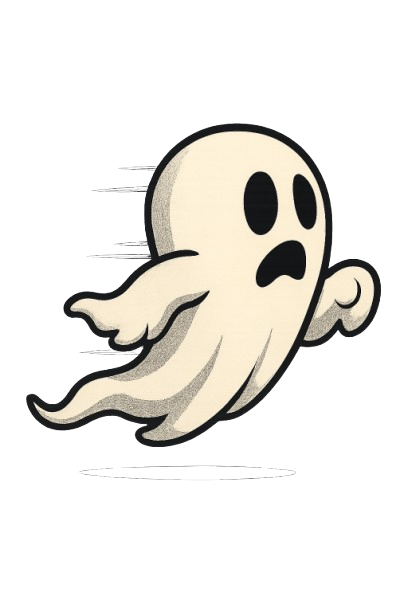
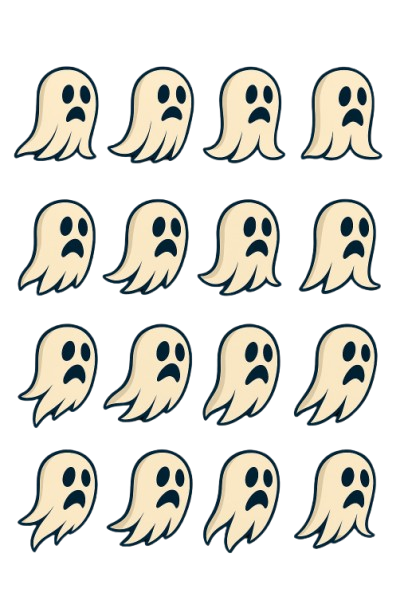
collision tile test

diff --git a/collision_tile.c b/collision_tile.c
@@ -1,0 +1,50 @@
+// collision_tile.c
+#include "raylib.h"
+#include <stdbool.h>
+
+#define TILE_SIZE 64
+#define MAP_WIDTH  10
+#define MAP_HEIGHT 10
+
+// 1 = solid tile, 0 = walkable
+int collisionMap[MAP_HEIGHT][MAP_WIDTH] = {
+    {1,1,1,1,1,1,1,1,1,1},
+    {1,0,0,0,0,0,0,0,0,1},
+    {1,0,0,1,0,0,1,0,0,1},
+    {1,0,0,1,0,0,1,0,0,1},
+    {1,0,0,1,0,0,1,0,0,1},
+    {1,0,0,0,0,0,0,0,0,1},
+    {1,1,1,1,1,1,1,1,1,1},
+    {1,0,0,0,0,0,0,0,0,1},
+    {1,0,1,1,0,0,1,1,0,1},
+    {1,1,1,1,1,1,1,1,1,1}
+};
+
+bool CheckCollisionWithMap(Rectangle rect)
+{
+    int startCol = (int)(rect.x / TILE_SIZE);
+    int endCol   = (int)((rect.x + rect.width) / TILE_SIZE);
+    int startRow = (int)(rect.y / TILE_SIZE);
+    int endRow   = (int)((rect.y + rect.height) / TILE_SIZE);
+
+    for (int row = startRow; row <= endRow; row++) {
+        for (int col = startCol; col <= endCol; col++) {
+            if (row >= 0 && row < MAP_HEIGHT && col >= 0 && col < MAP_WIDTH) {
+                if (collisionMap[row][col] == 1) {
+                    return true; // Collision detected
+                }
+            }
+        }
+    }
+    return false;
+}
+
+void DrawTileMap(Texture2D atlas) {
+    Rectangle src = { 0, 0, TILE_SIZE, TILE_SIZE }; // First tile in atlas
+    for (int y = 0; y < MAP_HEIGHT; y++) {
+        for (int x = 0; x < MAP_WIDTH; x++) {
+            Vector2 pos = { x * TILE_SIZE, y * TILE_SIZE };
+            DrawTextureRec(atlas, src, pos, WHITE);
+        }
+    }
+}

diff --git a/main.c b/main.c
@@ -1,5 +1,6 @@
 #include "raylib.h"
 #include "player.h"
+#include "collision_tile.h"
 
 #define SCREEN_WIDTH 800
 #define SCREEN_HEIGHT 600
@@ -9,6 +10,7 @@ int main()
     InitWindow(SCREEN_WIDTH, SCREEN_HEIGHT, "Phantom");
     SetTargetFPS(60);
 
+    Texture2D tileAtlas = LoadTexture("haunted_house_tile.png");
     InitPlayer();
 
     Camera2D camera = { 0 };
@@ -25,21 +27,22 @@ int main()
         camera.target = (Vector2){ player.position.x + player.width / 2, player.position.y + player.height / 2 };
 
         BeginDrawing();
-        ClearBackground(RAYWHITE);
+        ClearBackground(BLACK);
 
         BeginMode2D(camera);
 
-        DrawRectangle(-10000, 400, 20000, 50, DARKGRAY); // Ground
-        DrawPlayer();
+        DrawTileMap(tileAtlas);  // Draw background
+        DrawPlayer();            // Draw character
 
         EndMode2D();
 
-        // Debug text
-        DrawText(TextFormat("Y: %.2f  isJump: %s", player.position.y, player.isJump ? "true" : "false"), 10, 10, 20, BLACK);
+        // Debug info
+        DrawText(TextFormat("X: %.2f  Y: %.2f  isJump: %s", player.position.x, player.position.y, player.isJump ? "true" : "false"), 10, 10, 20, WHITE);
 
         EndDrawing();
     }
 
+    UnloadTexture(tileAtlas);
     UnloadTexture(player.texture);
     CloseWindow();
     return 0;

diff --git a/player.c b/player.c
@@ -1,10 +1,11 @@
 #include "player.h"
+#include "collision_tile.h"
 
 Player player;
 
 void InitPlayer()
 {
-    player.texture = LoadTexture("phantom_idle.png");  // 4-frame sprite sheet
+    player.texture = LoadTexture("phantom_move.png");  // 4-frame sprite sheet
     player.width = player.texture.width / 4;
     player.height = player.texture.height;
     player.position = (Vector2){ 100, 400 - player.height };
@@ -60,13 +61,21 @@ void playerKB()
 void playerUpdate()
 {
     player.velocity.y += GRAVITY;
-    player.position.y += player.velocity.y;
 
-    float groundY = 400;
+    // Predict next Y position
+    Vector2 nextPos = {
+        player.position.x,
+        player.position.y + player.velocity.y
+    };
 
-    if (player.position.y + player.height >= groundY)
-    {
-        player.position.y = groundY - player.height;
+    Rectangle nextRect = {
+        nextPos.x, nextPos.y,
+        player.width, player.height
+    };
+
+    if (!CheckCollisionWithMap(nextRect)) {
+        player.position.y = nextPos.y;
+    } else {
         player.velocity.y = 0;
         player.isJump = false;
     }

diff --git a/collision_tile.h b/collision_tile.h
@@ -1,0 +1,10 @@
+#ifndef COLLISION_TILE_H
+#define COLLISION_TILE_H
+
+#include "raylib.h"
+#include <stdbool.h>
+
+bool CheckCollisionWithMap(Rectangle rect);
+void DrawTileMap(Texture2D atlas);
+
+#endif
